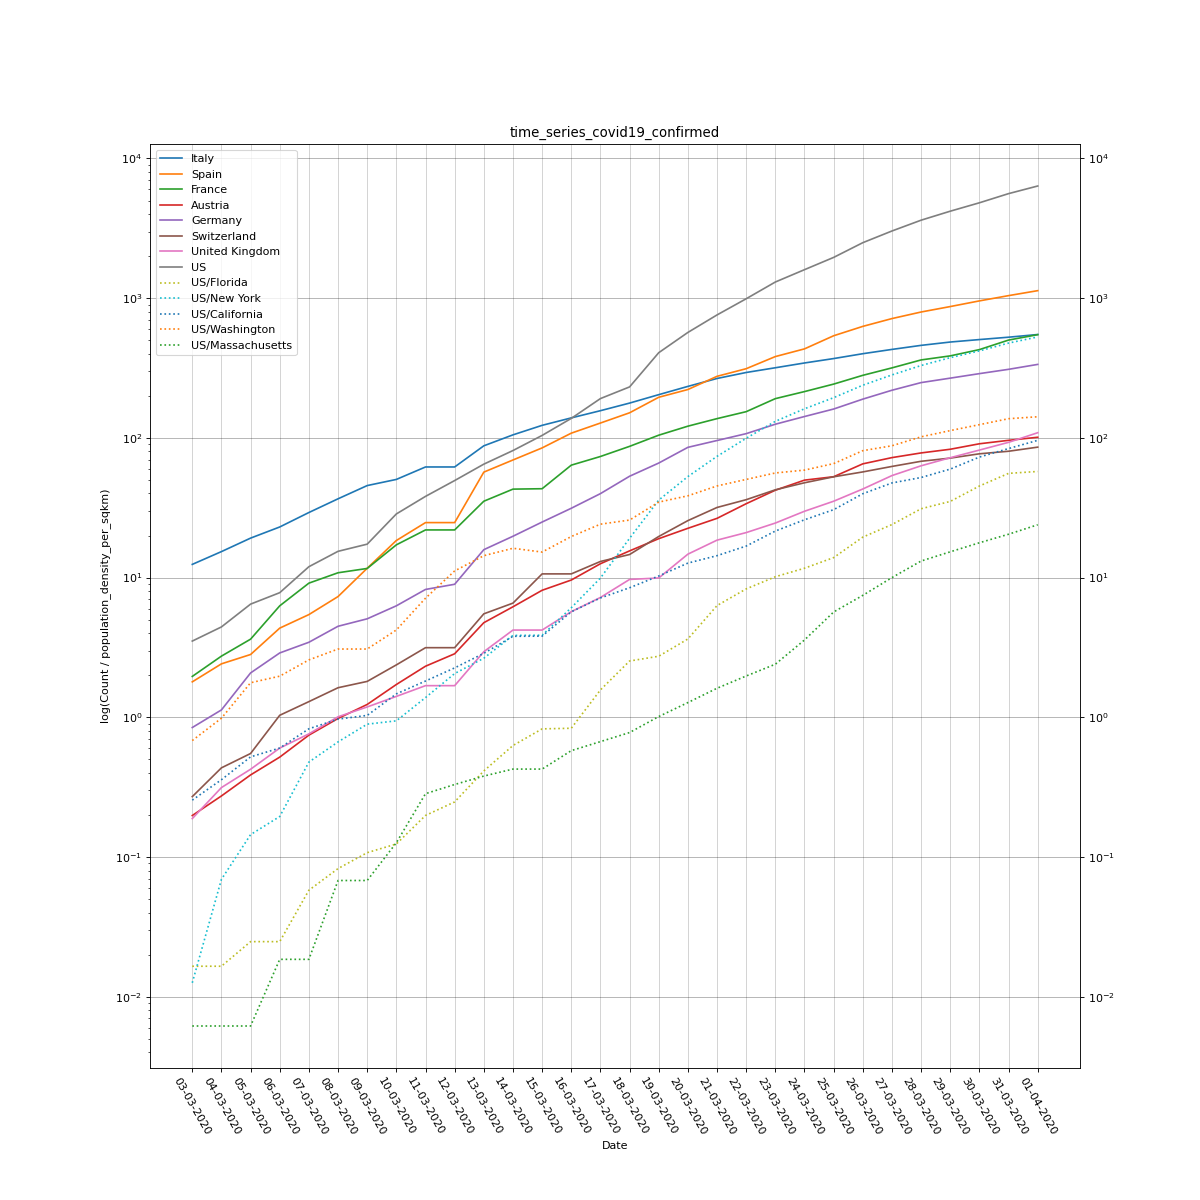
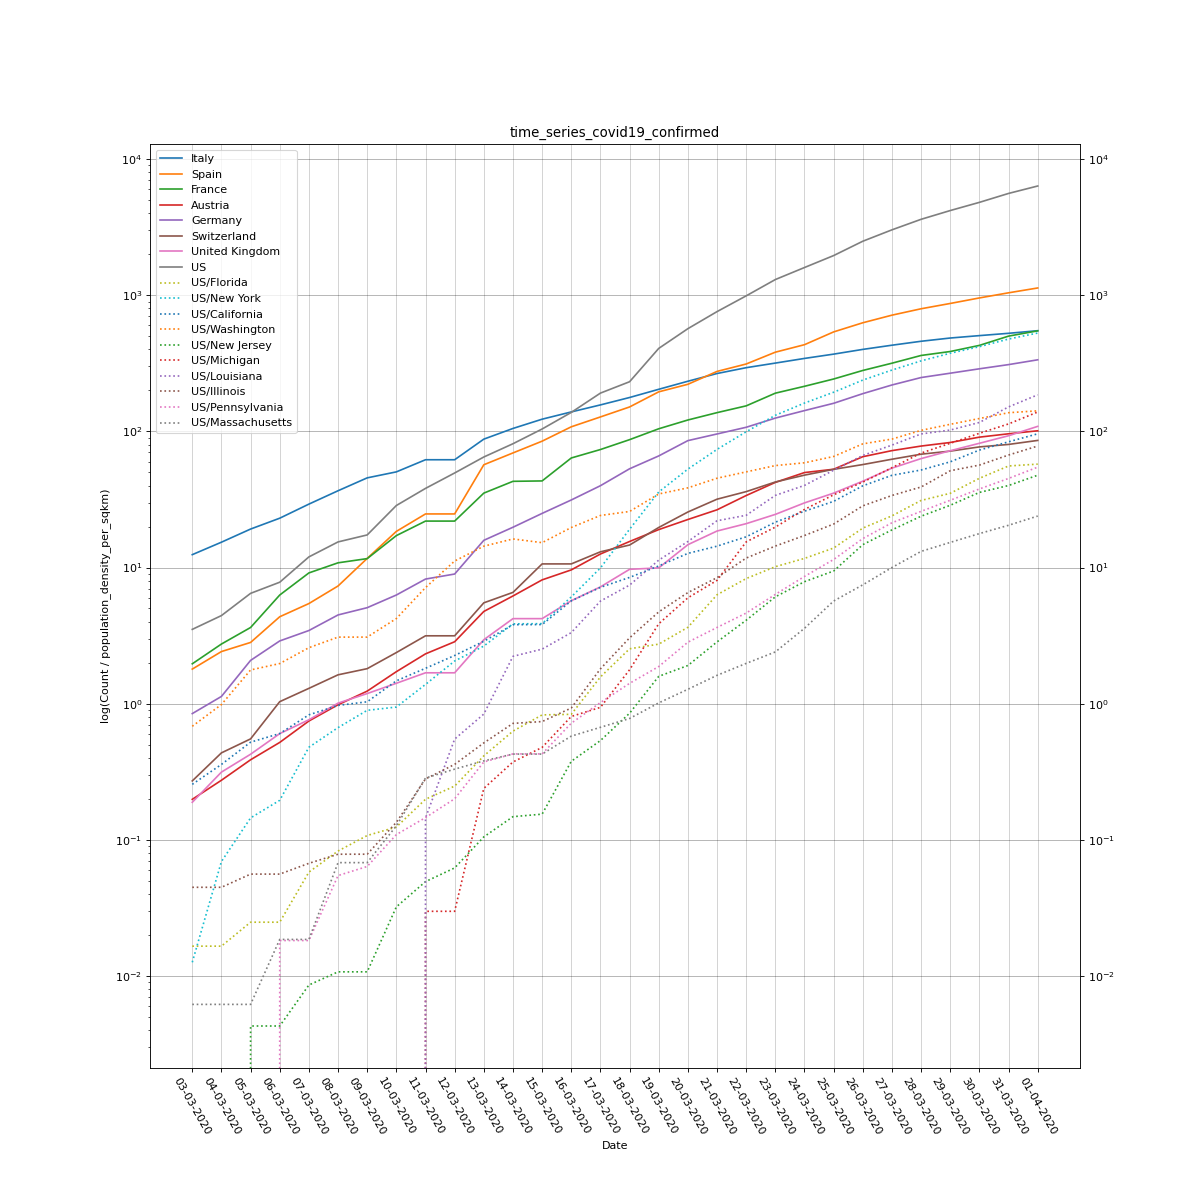
[plots] Updates plots with more US states

diff --git a/src/covidplotter.py b/src/covidplotter.py
@@ -38,14 +38,14 @@ def _yvalues(counts, scales, scale_key, scale_factor):
     else:
         return None
 
-def _plot(ax, plotkey_to_values, plotkey_to_scales, xvalue_begin, xvalue_end, scale_key, scale_factor):
+def _plot(ax, label_to_values, label_to_scales, xvalue_begin, xvalue_end, scale_key, scale_factor):
     min_yvalue = None
     max_yvalue = None
 
-    for plotkey, scales in plotkey_to_scales.items():
-        if plotkey in plotkey_to_values:
+    for label, scales in label_to_scales.items():
+        if label in label_to_values:
             yvalues = _yvalues(
-                    plotkey_to_values[plotkey][xvalue_begin:xvalue_end],
+                    label_to_values[label][xvalue_begin:xvalue_end],
                     scales,
                     scale_key,
                     scale_factor
@@ -54,9 +54,16 @@ def _plot(ax, plotkey_to_values, plotkey_to_scales, xvalue_begin, xvalue_end, sc
             if yvalues is not None:
                 min_yvalue = _smaller(min(yvalues), min_yvalue)
                 max_yvalue = _larger(max(yvalues), max_yvalue)
+
+                if len(label.split("/")) > 1:
+                    linestyle = ":"
+                else:
+                    linestyle = "-"
+
                 ax.plot(
                         yvalues,
-                        label=plotkey
+                        label=label,
+                        linestyle=linestyle
                         )
 
     return min_yvalue, max_yvalue
@@ -103,7 +110,9 @@ def _main(args):
         rows = list(csv.reader(csvfile, delimiter=','))
 
     with open(args.scale_map, "r") as jsonfile:
-        plotkey_to_scales = json.load(jsonfile)
+        label_to_scales = json.load(jsonfile)
+
+    plt.set_cmap("hsv")
 
     _, ax = plt.subplots(
             figsize=args.figsize,
@@ -112,12 +121,12 @@ def _main(args):
 
     xvalue_begin, xvalue_end = _define_xaxis(ax, rows[0][1:], args.xlabel, args.num_recent_entries)
 
-    min_yvalue, max_yvalue = _plot(ax, {row[0]: [int(n) for n in row[1:]] for row in rows[1:]}, plotkey_to_scales, xvalue_begin, xvalue_end, args.scale_key, args.scale_factor)
+    min_yvalue, max_yvalue = _plot(ax, {row[0]: [int(n) for n in row[1:]] for row in rows[1:]}, label_to_scales, xvalue_begin, xvalue_end, args.scale_key, args.scale_factor)
 
     _define_yaxis(ax, min_yvalue, max_yvalue, args.figsize[1], args.yscale, args.ylabel, args.scale_key, args.scale_factor)
 
-    ax.grid(axis="x", color="green", alpha=.3, linewidth=2, linestyle=":")
-    ax.grid(axis="y", color="black", alpha=.5, linewidth=.5)
+    ax.grid(axis="x", color="black", alpha=.3, linewidth=.5, linestyle="-")
+    ax.grid(axis="y", color="black", alpha=.5, linewidth=.5, linestyle="-")
 
     ax.set_title(args.title)
 
